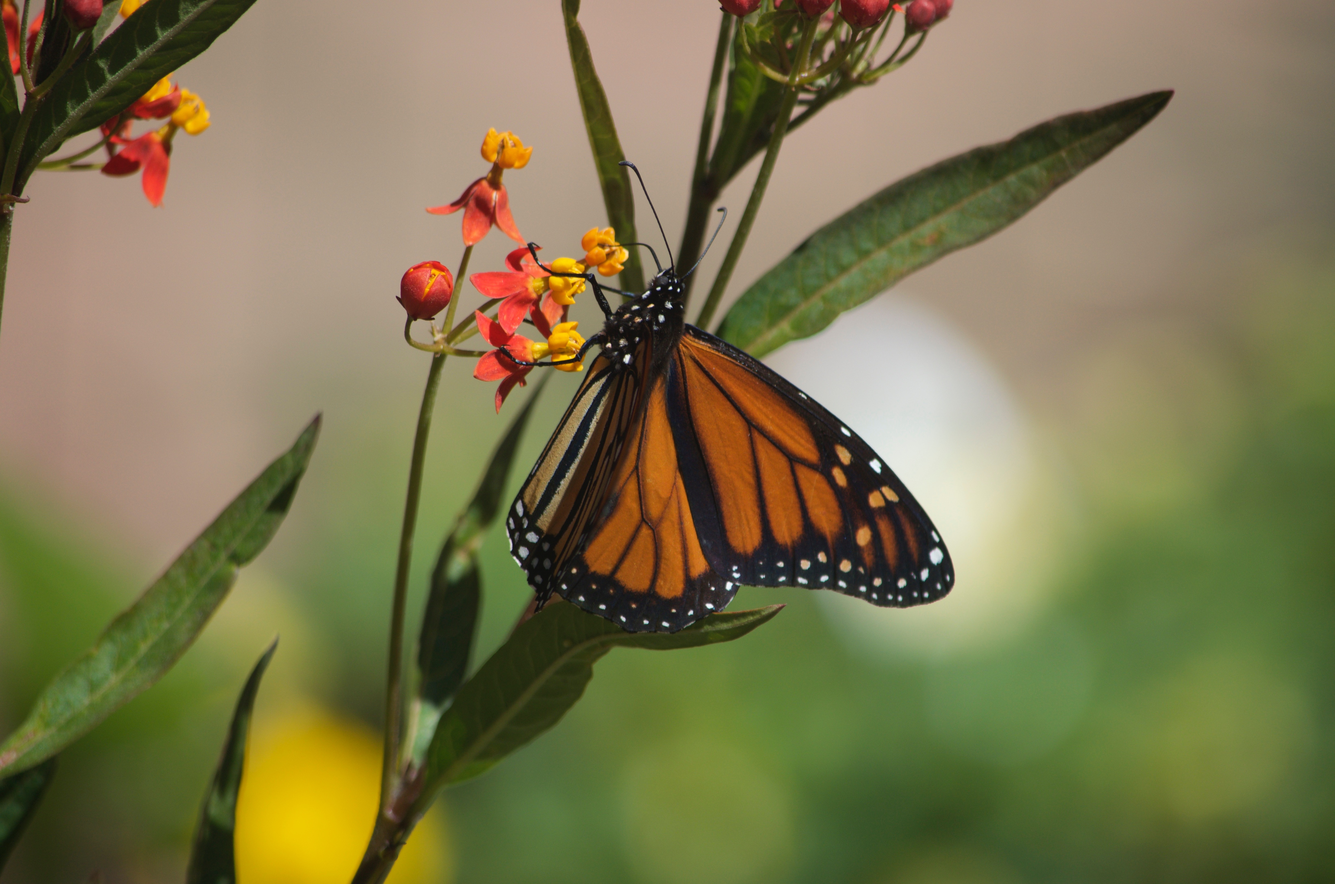
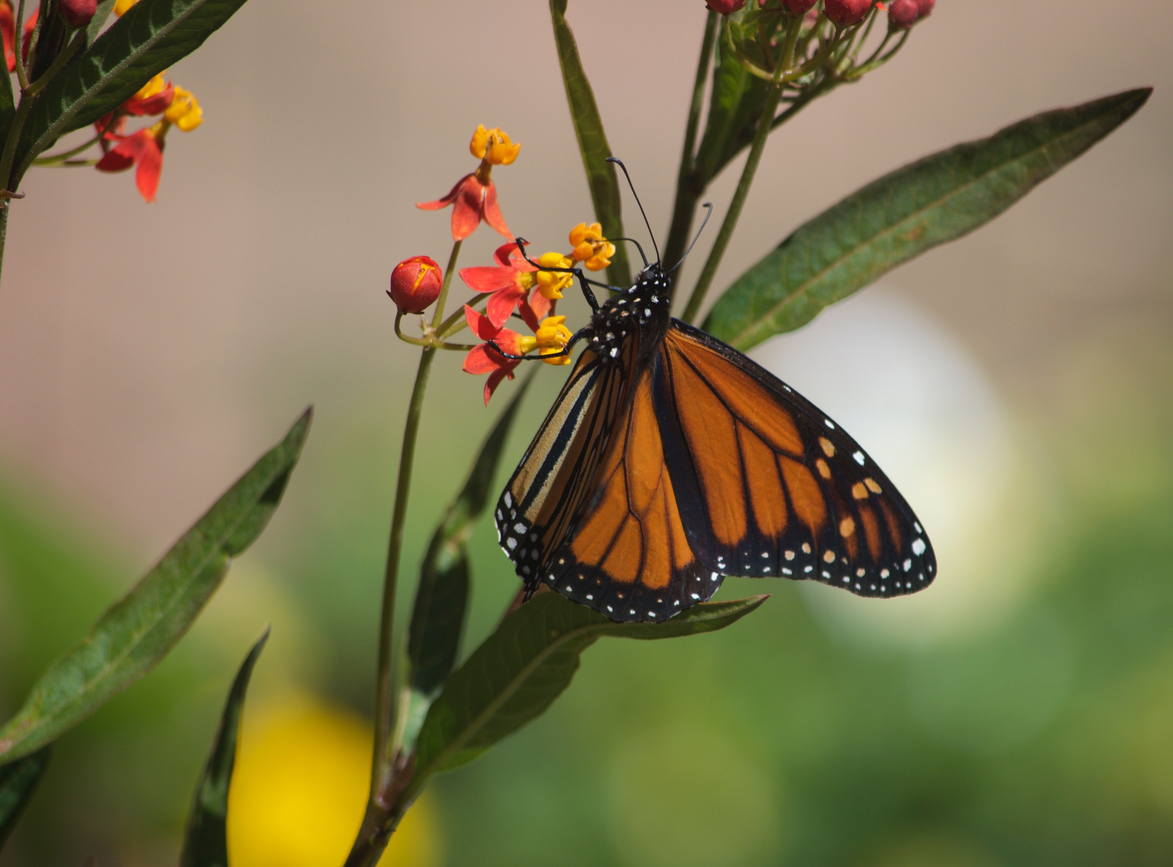
fix image overlap

diff --git a/sass/milkweed-highway.sass b/sass/milkweed-highway.sass
@@ -9,7 +9,8 @@
 	grid-gap: 2em
 
 .milkweed-article,
-#map
+#map,
+#images
 	margin-left: 5vw
 	margin-right: 5vw
 
@@ -50,20 +51,17 @@
 	font-weight: bold
 
 #images
+	margin-top: 30px
 	display: grid
 	grid-template-columns: repeat(auto-fit, minmax(200px, 1fr))
 	justify-items: center
+	grid-gap: 1em
 	img
 		transition: all 0.6s ease-in-out
+		width: 100%
 		&:hover
 			opacity: 0.6
 			transform: scale(1.1)
-.butterfly
-	width: 300px
-	margin: 10px
-
-#larva
-	height: 200px
 
 #map
 	font-size: 0.8em
@@ -81,10 +79,12 @@
 	.milkweed-article
 		grid-template-columns: 1fr
 
+
 @media (max-width: 880px)
 	.milkweed-article
 		p
 			font-size: 0.9em
+
 @media (max-width: 440px)
 	.milkweed-article
 		margin-left: 0

diff --git a/css/milkweed-highway.css b/css/milkweed-highway.css
@@ -538,7 +538,8 @@ footer {
   grid-gap: 2em; }
 
 .milkweed-article,
-#map {
+#map,
+#images {
   margin-left: 5vw;
   margin-right: 5vw; }
 
@@ -579,21 +580,17 @@ footer {
   font-weight: bold; }
 
 #images {
+  margin-top: 30px;
   display: grid;
   grid-template-columns: repeat(auto-fit, minmax(200px, 1fr));
-  justify-items: center; }
+  justify-items: center;
+  grid-gap: 1em; }
   #images img {
-    transition: all 0.6s ease-in-out; }
+    transition: all 0.6s ease-in-out;
+    width: 100%; }
     #images img:hover {
       opacity: 0.6;
       transform: scale(1.1); }
-
-.butterfly {
-  width: 300px;
-  margin: 10px; }
-
-#larva {
-  height: 200px; }
 
 #map {
   font-size: 0.8em;
